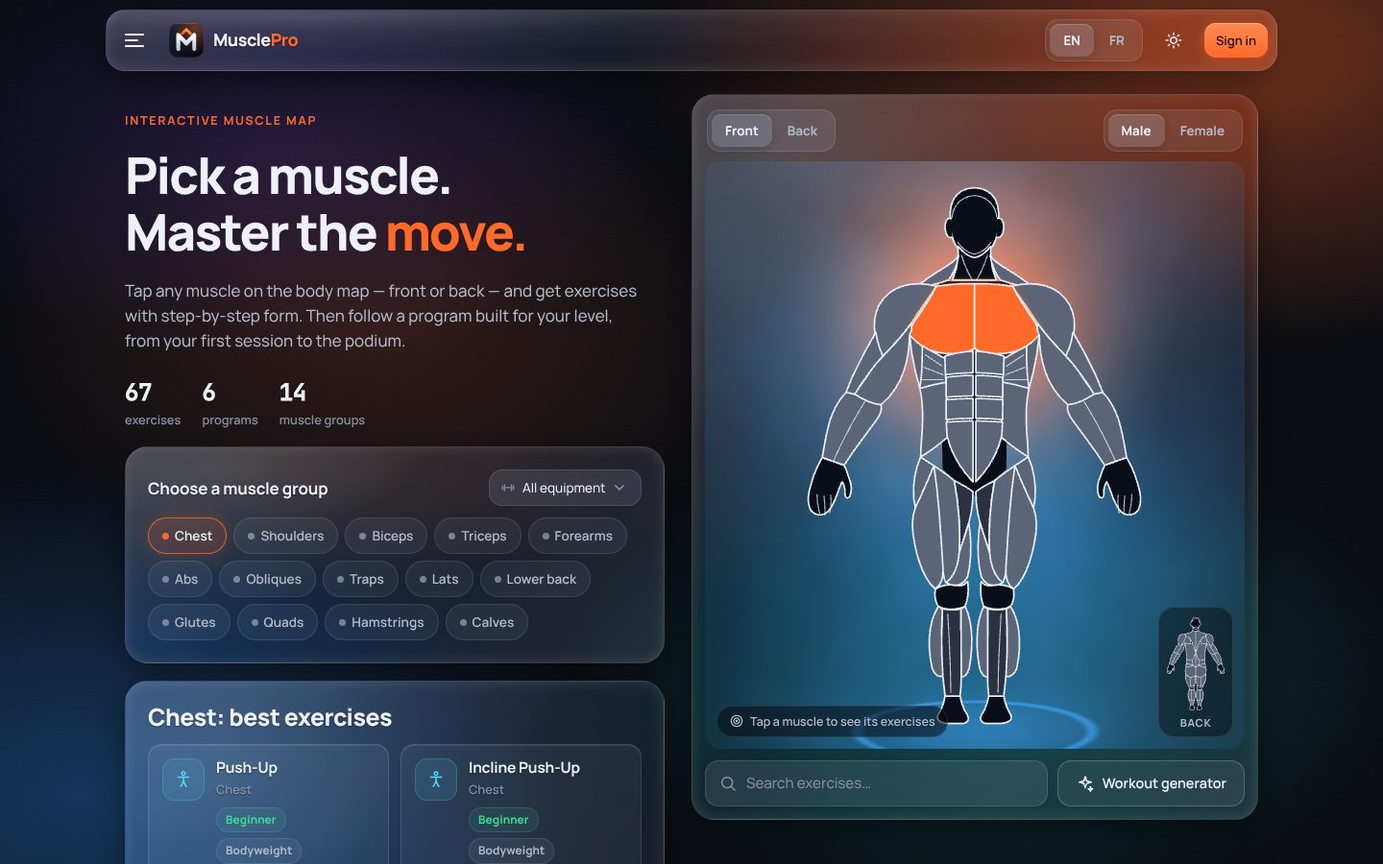
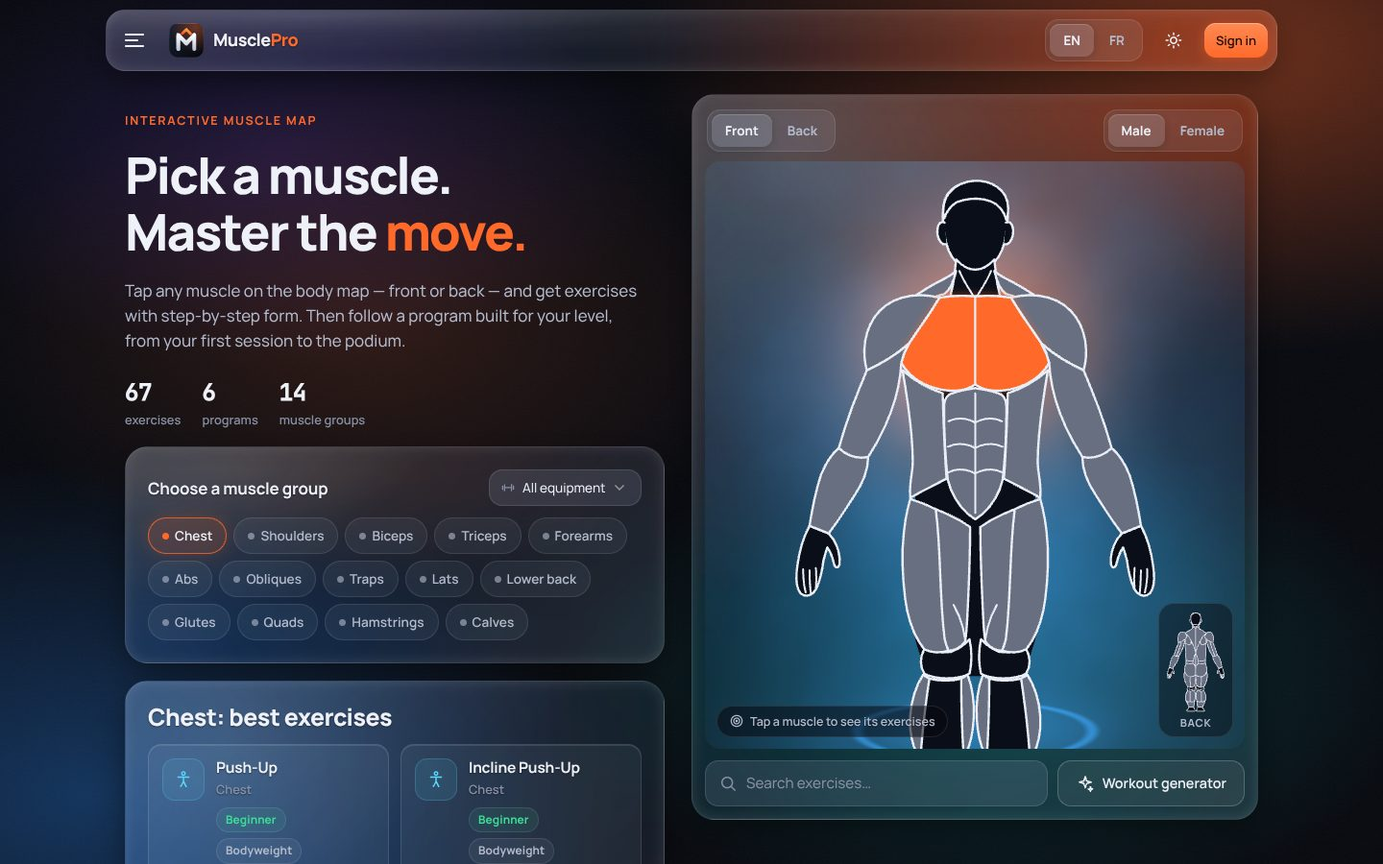
Redraw the body as a human anatomy chart with large smooth forms
The previous map was segmented into many small blocks and thin lines.
New original artwork (600×1010, A-pose) built from a few large
anatomical forms with bold outlines:

- One abdominal wall with curved tendinous lines, one oblique form per
  side, round deltoid caps over a single upper-arm form, flaring
  forearms and open hands
- Thighs as an outer quad sweep plus the inner thigh, separated by a
  dark gap; black knees, calves on the sides of the shin
- Head with a hair shape and ears; hair covers the back view
- Main home view is framed head to mid-calf so the body fills the
  stage; thumbnail and exercise/progress views show the full figure
- Tight dark backings so seams read as dark lines, never as glow
- Female figure keeps the width warp and her own chest shape

Claude-Session: https://claude.ai/code/session_01EFfMgz2SYw7CpDqvwjZRPh

Changed region(s): [[0.5625, 0.1867, 0.8438, 0.8711], [0.8438, 0.6844, 0.9062, 0.84]]

diff --git a/frontend/src/ui/anatomy.ts b/frontend/src/ui/anatomy.ts
@@ -1,15 +1,12 @@
 /** Hand-drawn anatomical muscle map (original artwork for MusclePro).
  *
- *  Each view is authored as the LEFT half of a 500×900 figure (x < 250) in
- *  absolute M/L/C/Z path commands. The right half is generated by mirroring,
- *  and the female figure is produced by a smooth width warp of every
- *  coordinate (narrower shoulders and waist, wider hips) plus a few
- *  replacement shapes — one source of truth for four figures.
+ *  Style: a few large, smooth anatomical forms with thick outlines — the
+ *  way fitness muscle charts read best at phone size. Each view is authored
+ *  as the LEFT half of a 600×1010 heroic male figure (midline x = 300) in
+ *  absolute M/L/C/Z commands; the right half is mirrored and the female
+ *  figure is a smooth width warp of the same art plus her own chest shape.
  */
 import type { BodyType, Muscle } from '../types';
-
-const BUILD_ARM = 1.13;
-const HEAD_SCALE = 0.95;
 
 export type View = 'front' | 'back';
 type Kind = 'muscle' | 'minor' | 'skin' | 'line' | 'back';
@@ -20,112 +17,108 @@ interface Part {
   kind?: Kind; // default 'muscle' when m is set, else 'skin'
   center?: boolean; // spans the midline: drawn once, not mirrored
   only?: BodyType; // shape used for one body type only
-  zone?: 'head' | 'arm'; // build pass: head shrinks, arms widen as a unit
+  arm?: boolean; // arms move as one rigid unit in the female warp
 }
 
-// ---------------------------------------------------------------- shared
-// Canvas: 500 × 900, midline x = 250. Heroic proportions, A-pose (~30°).
-const HEAD = 'M 250 12 C 274 12 290 28 291 54 C 292 72 290 88 286 100 C 282 112 272 122 262 127 C 258 129 254 130 250 130 C 246 130 242 129 238 127 C 228 122 218 112 214 100 C 210 88 208 72 209 54 C 210 28 226 12 250 12 Z';
-const EAR = 'M 211 64 C 203 61 199 72 201 84 C 202 92 207 98 213 96';
-const NECK = 'M 224 112 C 225 130 224 148 219 166 L 281 166 C 276 148 275 130 276 112 C 268 122 259 129 250 130 C 241 129 232 122 224 112 Z';
-const FOREARM = 'M 72 348 L 82 350 C 92 358 102 364 112 364 C 113 372 110 380 104 390 C 92 410 76 436 62 462 L 37 452 C 40 436 45 410 51 390 C 57 372 64 358 72 348 Z';
-const FOREARM_LINE = 'M 93 361 C 80 386 64 420 50 456';
-const HAND = 'M 37 452 C 30 466 24 482 20 498 C 16 512 14 526 18 536 C 22 544 32 544 38 536 C 44 528 48 516 52 504 C 54 498 56 492 58 488 C 60 494 61 500 60 506 C 59 512 62 515 65 511 C 69 502 69 490 66 480 C 65 474 64 468 62 462 Z';
-const FINGERS = 'M 27 510 C 26 522 27 532 28 540 M 35 512 C 35 524 35 534 34 542 M 43 510 C 43 520 42 530 40 538';
-const KNEE = 'M 192 662 C 200 656 212 654 222 656 C 230 658 236 656 240 650 C 242 666 240 680 236 690 C 224 696 206 696 196 690 C 191 682 190 672 192 662 Z';
-const FOOT = 'M 205 834 C 203 846 199 856 194 864 C 190 872 198 878 212 878 L 232 878 C 240 877 243 871 239 864 C 234 856 230 846 228 834 Z';
+// ----------------------------------------------------------------- shared
+const HEAD = 'M 300 26 C 328 26 347 40 350 64 C 352 80 351 96 348 110 C 346 126 340 142 330 152 C 321 160 311 164 300 164 C 289 164 279 160 270 152 C 260 142 254 126 252 110 C 249 96 248 80 250 64 C 253 40 272 26 300 26 Z';
+const EAR = 'M 252 90 C 243 86 239 98 241 110 C 243 120 249 126 255 124';
+const HAIR = 'M 251 84 C 245 56 260 32 288 26 C 310 21 336 28 347 48 C 353 60 353 74 349 86 C 345 72 337 62 325 57 C 307 50 287 52 271 58 C 261 64 255 73 251 84 Z';
+const NECK = 'M 270 148 C 268 168 266 188 261 206 L 339 206 C 334 188 332 168 330 148 C 320 159 310 164 300 164 C 290 164 280 159 270 148 Z';
 
-// Body backing behind the torso: gaps between muscles read as dark seams
-// (and the groin as the dark V), never as the page or glow behind.
-const TORSO_BACKING = 'M 200 168 L 300 168 C 306 230 300 300 296 340 C 294 400 294 440 294 470 L 252 512 L 248 512 L 206 470 C 206 440 206 400 204 340 C 200 300 194 230 200 168 Z';
+// Arm: deltoid cap → one upper-arm form → flaring forearm → open hand.
+const ARM_UPPER = 'M 130 322 C 152 312 176 298 196 280 C 190 290 186 300 184 310 C 182 352 168 402 132 458 C 116 462 98 456 86 444 C 98 400 114 360 130 322 Z';
+const FOREARM = 'M 86 444 C 98 456 116 462 132 458 C 132 478 124 498 112 516 C 98 538 84 560 70 578 L 40 566 C 44 540 50 510 58 486 C 66 466 76 452 86 444 Z';
+const HAND = 'M 40 566 C 30 584 24 606 21 628 C 18 648 19 664 26 672 C 33 679 44 676 50 666 C 56 654 60 636 62 620 C 64 612 66 606 68 600 C 72 606 76 614 78 624 C 79 632 85 634 87 627 C 89 614 84 598 78 588 C 75 584 72 581 70 578 Z';
+const FINGERS = 'M 30 634 C 30 648 31 660 34 671 M 40 636 C 40 650 41 662 42 673 M 50 632 C 51 644 51 655 50 665';
+
+const KNEE = 'M 220 760 C 232 764 248 766 262 764 C 274 760 284 752 291 744 C 295 762 295 782 291 798 C 276 808 236 808 220 798 C 213 786 213 772 220 760 Z';
+const SHIN = 'M 228 806 C 220 860 216 900 214 934 C 222 944 230 954 234 962 L 280 962 C 280 950 281 940 282 930 C 280 900 278 860 278 806 C 264 810 244 810 228 806 Z';
+const FOOT = 'M 234 962 C 230 974 222 984 214 990 C 207 996 213 1002 226 1002 L 288 1002 C 296 1001 297 994 291 987 C 285 980 282 972 280 962 Z';
+
+// Backings: dark body behind the muscles, so every gap reads as a seam.
+const TORSO_BACKING = 'M 200 206 L 400 206 C 412 280 406 360 398 420 C 394 470 394 510 394 530 L 304 582 L 296 582 L 206 530 C 206 510 206 470 202 420 C 194 360 188 280 200 206 Z';
+const LEG_BACKING = 'M 206 532 L 290 566 L 290 800 L 228 800 C 204 760 194 700 194 640 C 194 600 198 560 206 532 Z';
+const CROTCH_BACKING = 'M 282 560 L 318 560 L 318 802 L 282 802 Z';
 
 const FRONT: Part[] = [
   { d: TORSO_BACKING, center: true, kind: 'back' },
-  // head & neck
-  { d: HEAD, center: true, zone: 'head' },
-  { d: EAR, zone: 'head' },
-  { d: 'M 212 62 C 214 40 230 26 250 25', kind: 'line', zone: 'head' },
-  { d: 'M 222 104 C 228 114 238 122 250 124', kind: 'line', zone: 'head' },
-  { d: NECK, center: true },
-  { d: 'M 229 126 C 234 140 240 154 247 166', kind: 'line' },
+  { d: LEG_BACKING, kind: 'back' },
+  { d: CROTCH_BACKING, center: true, kind: 'back' },
 
-  // traps (upper, seen from the front)
-  { m: 'traps', d: 'M 225 126 C 223 144 219 157 213 166 C 199 172 183 176 166 179 C 178 166 194 154 207 144 C 215 138 221 133 225 126 Z' },
+  // head & neck
+  { d: HEAD, center: true },
+  { d: EAR },
+  { d: HAIR, center: true },
+  { d: NECK, center: true },
+  { d: 'M 275 166 C 282 182 290 194 297 205', kind: 'line' },
+
+  // traps rising to the neck
+  { m: 'traps', d: 'M 270 166 C 266 184 260 196 252 202 C 236 208 214 212 194 214 C 214 198 236 186 252 178 C 260 174 266 170 270 166 Z' },
 
   // shoulders & chest
-  { m: 'shoulders', d: 'M 196 176 C 172 168 146 172 130 186 C 114 200 107 220 108 242 C 109 262 113 276 120 288 C 136 270 150 252 160 236 C 172 214 186 194 196 176 Z' },
-  { m: 'chest', only: 'male', d: 'M 250 172 C 232 171 214 173 196 176 C 188 194 176 214 164 234 C 160 242 158 248 158 254 C 166 270 186 282 210 284 C 228 286 242 282 250 276 Z' },
-  { m: 'chest', only: 'female', d: 'M 250 174 C 232 173 214 175 196 178 C 188 196 176 216 164 236 C 158 262 170 292 198 297 C 222 301 240 293 250 285 Z' },
-  { d: 'M 250 172 L 250 276', kind: 'line', center: true },
+  { m: 'shoulders', d: 'M 244 208 C 214 200 182 204 160 220 C 138 236 127 262 126 290 C 126 302 127 312 130 322 C 152 312 176 298 196 280 C 212 256 230 232 244 208 Z' },
+  { m: 'chest', only: 'male', d: 'M 300 206 C 280 204 262 205 244 208 C 230 232 212 256 196 280 C 190 290 186 300 184 310 C 196 334 226 352 260 354 C 280 355 292 350 300 344 Z' },
+  { m: 'chest', only: 'female', d: 'M 300 208 C 280 206 262 207 244 210 C 230 234 212 258 198 282 C 184 306 184 334 206 350 C 228 366 268 362 300 350 Z' },
 
   // arms
-  { m: 'triceps', d: 'M 110 250 C 112 264 115 277 120 288 C 108 304 94 326 82 350 L 72 348 C 82 318 95 282 110 250 Z', zone: 'arm' },
-  { m: 'biceps', d: 'M 160 236 C 162 244 160 250 158 254 C 157 292 141 332 112 364 C 102 364 92 358 82 350 C 96 326 106 304 120 288 C 136 270 150 252 160 236 Z', zone: 'arm' },
-  { m: 'forearms', d: FOREARM, zone: 'arm' },
-  { d: FOREARM_LINE, kind: 'line', zone: 'arm' },
-  { d: HAND, zone: 'arm' },
-  { d: FINGERS, kind: 'line', zone: 'arm' },
+  { m: 'biceps', d: ARM_UPPER, arm: true },
+  { m: 'forearms', d: FOREARM, arm: true },
+  { d: HAND, arm: true },
+  { d: FINGERS, kind: 'line', arm: true },
 
-  // torso
-  { m: 'lats', d: 'M 158 254 C 164 262 170 268 176 272 C 176 296 176 318 174 340 C 166 314 160 284 158 254 Z' },
-  { m: 'obliques', d: 'M 176 272 C 186 278 198 285 208 292 L 210 330 C 198 332 186 336 174 340 C 176 318 176 296 176 272 Z' },
-  { d: 'M 180 286 C 188 292 196 298 204 304 M 178 306 C 188 310 196 314 206 318 M 177 326 C 186 326 196 326 206 326', kind: 'line' },
-  { m: 'obliques', d: 'M 174 340 C 186 336 198 332 210 330 C 212 362 214 392 214 418 C 202 430 190 440 176 450 C 177 428 180 410 180 392 C 180 374 178 356 174 340 Z' },
-  { m: 'abs', d: 'M 248 280 C 236 281 222 283 208 288 L 209 318 C 222 316 236 315 248 315 Z' },
-  { m: 'abs', d: 'M 248 319 C 236 319 222 320 210 322 L 211 354 C 224 353 236 352 248 352 Z' },
-  { m: 'abs', d: 'M 248 356 C 236 356 224 357 211 358 L 212 390 C 224 389 236 388 248 388 Z' },
-  { m: 'abs', d: 'M 248 392 C 236 392 224 393 212 394 L 213 416 C 218 444 230 468 248 490 Z' },
+  // torso: one oblique form per side, one abdominal wall with its lines
+  { m: 'obliques', d: 'M 186 322 C 206 340 230 352 249 358 C 250 400 252 450 255 492 C 236 502 216 512 198 522 C 196 500 202 482 202 466 C 202 430 196 380 186 322 Z' },
+  { m: 'abs', center: true, d: 'M 300 350 C 288 352 272 354 259 360 C 253 364 251 372 251 382 C 251 420 253 460 257 494 C 263 520 280 544 300 556 C 320 544 337 520 343 494 C 347 460 349 420 349 382 C 349 372 347 364 341 360 C 328 354 312 352 300 350 Z' },
+  { center: true, kind: 'line', d: 'M 300 358 L 300 546 M 258 402 C 272 395 288 397 300 404 C 312 397 328 395 342 402 M 257 442 C 272 435 288 437 300 444 C 312 437 328 435 343 442 M 258 482 C 272 475 288 477 300 484 C 312 477 328 475 342 482' },
 
-  // hips & thighs
-  { m: 'glutes', d: 'M 176 450 L 194 464 C 186 486 176 510 166 532 C 162 506 166 474 176 450 Z' },
-  { m: 'quads', d: 'M 194 464 C 200 516 202 576 204 630 C 204 646 200 656 192 662 C 178 650 168 620 164 590 C 160 566 160 548 166 532 C 176 510 186 486 194 464 Z' },
-  { m: 'quads', d: 'M 194 464 C 204 472 214 480 222 488 C 228 528 230 568 228 604 C 226 628 218 644 208 652 C 205 646 204 638 204 630 C 202 576 200 516 194 464 Z' },
-  { m: 'quads', d: 'M 228 604 C 234 584 238 570 242 556 C 246 584 246 616 240 642 C 234 656 222 660 208 652 C 218 644 226 628 228 604 Z' },
-  { kind: 'minor', d: 'M 222 488 C 232 494 242 500 248 506 C 248 524 246 540 242 556 C 238 570 234 584 228 604 C 230 568 228 528 222 488 Z' },
+  // thighs: the outer quad sweep and the inner thigh, split by one line
+  { m: 'quads', d: 'M 198 524 C 212 528 226 534 238 540 C 246 600 244 680 252 744 C 254 752 256 758 258 762 C 246 766 232 766 220 760 C 204 740 194 712 190 680 C 186 648 184 610 188 576 C 190 556 194 538 198 524 Z' },
+  { m: 'quads', d: 'M 238 540 C 258 548 276 556 292 568 C 292 610 290 660 288 700 C 287 722 286 738 284 748 C 276 758 268 762 258 762 C 256 758 254 752 252 744 C 244 680 246 600 238 540 Z' },
+  { d: 'M 266 690 C 276 708 282 726 284 744', kind: 'line' },
 
   // knees, lower legs, feet
   { d: KNEE },
-  { m: 'calves', d: 'M 196 690 C 182 712 178 750 186 790 C 190 800 196 804 202 802 C 200 766 200 728 202 694 Z' },
-  { m: 'calves', d: 'M 236 690 C 247 712 249 752 242 790 C 239 800 234 804 230 803 C 230 766 230 728 230 694 Z' },
-  { kind: 'minor', d: 'M 202 694 C 212 696 222 696 230 694 C 230 728 230 766 230 803 C 230 814 229 824 228 834 L 205 834 C 204 824 203 814 202 802 C 200 766 200 728 202 694 Z' },
-  { d: 'M 210 702 C 212 742 214 784 214 828', kind: 'line' },
+  { d: SHIN },
+  { m: 'calves', d: 'M 218 800 C 204 822 196 852 198 884 C 200 906 206 922 214 934 C 216 900 220 860 228 806 Z' },
+  { m: 'calves', d: 'M 288 800 C 298 826 300 856 296 886 C 293 906 288 920 282 930 C 280 900 278 860 278 806 Z' },
   { d: FOOT },
 ];
 
 const BACK: Part[] = [
   { d: TORSO_BACKING, center: true, kind: 'back' },
-  { d: HEAD, center: true, zone: 'head' },
-  { d: EAR, zone: 'head' },
-  { d: 'M 212 62 C 214 40 230 26 250 25', kind: 'line', zone: 'head' },
-  { d: 'M 220 106 C 232 113 268 113 280 106', kind: 'line', center: true, zone: 'head' },
+  { d: LEG_BACKING, kind: 'back' },
+  { d: CROTCH_BACKING, center: true, kind: 'back' },
+
+  { d: HEAD, center: true },
+  { d: EAR },
+  { d: 'M 251 92 C 244 60 262 30 300 28 C 338 30 356 60 349 92 C 346 112 340 128 330 140 C 312 146 288 146 270 140 C 260 128 254 112 251 92 Z', center: true },
   { d: NECK, center: true },
 
-  { m: 'traps', d: 'M 250 150 L 250 346 C 242 314 234 286 224 262 C 218 246 212 232 204 220 C 194 206 180 196 166 188 C 162 184 158 180 156 176 C 176 172 194 166 210 158 C 218 154 222 146 224 138 C 230 144 240 148 250 150 Z' },
-  { m: 'shoulders', d: 'M 156 176 C 134 170 116 182 110 202 C 104 222 104 244 110 262 C 114 274 119 283 126 290 C 136 270 146 250 156 232 C 164 218 170 204 166 188 C 162 184 158 180 156 176 Z' },
-  { m: 'shoulders', d: 'M 166 188 C 180 196 194 206 204 220 C 210 232 212 246 208 262 C 192 268 172 266 160 258 C 156 250 155 240 156 232 C 164 218 170 204 166 188 Z' },
-  { m: 'lats', d: 'M 160 258 C 172 266 192 268 208 262 L 224 262 C 234 286 242 314 248 350 C 244 374 236 398 224 418 C 208 420 192 416 180 410 C 178 380 174 346 170 314 C 168 294 164 274 160 258 Z' },
-  { m: 'lower_back', d: 'M 250 350 L 250 488 C 238 484 230 474 226 460 C 224 446 224 432 224 418 C 236 398 244 374 248 352 Z' },
-  { m: 'obliques', d: 'M 180 410 C 194 416 208 420 224 418 C 224 432 224 446 226 460 C 210 458 194 454 176 450 C 176 436 178 422 180 410 Z' },
+  // traps kite, rear delts, rotator cuff, lats
+  { m: 'traps', d: 'M 300 176 L 300 420 C 290 384 276 344 262 314 C 254 296 244 280 232 266 C 222 254 208 240 194 226 C 214 212 240 200 258 190 C 266 184 270 174 272 164 C 280 170 290 174 300 176 Z' },
+  { m: 'shoulders', d: 'M 194 226 C 172 210 146 214 134 236 C 124 256 124 284 126 300 C 127 310 128 316 130 322 C 152 316 176 302 196 288 C 204 278 210 268 214 260 C 208 250 202 238 194 226 Z' },
+  { m: 'shoulders', d: 'M 194 226 C 208 240 222 254 232 266 C 244 280 252 296 254 312 C 254 324 251 334 246 342 C 230 344 212 338 198 330 C 196 316 196 300 196 288 C 204 278 210 268 214 260 C 208 250 202 238 194 226 Z' },
+  { m: 'lats', d: 'M 198 330 C 212 338 230 344 246 342 C 252 334 256 324 262 314 C 276 344 290 384 300 420 L 300 426 C 288 446 280 470 276 500 C 254 506 228 504 204 498 C 204 470 202 440 200 410 C 198 380 196 352 198 330 Z' },
+  { m: 'lower_back', d: 'M 300 426 L 300 558 C 290 552 280 542 274 528 C 272 518 274 508 276 500 C 280 470 288 446 300 426 Z' },
+  { m: 'obliques', d: 'M 204 498 C 228 504 254 506 276 500 C 274 508 272 518 274 528 C 250 534 226 532 204 526 C 202 516 202 506 204 498 Z' },
 
   // arms
-  { m: 'triceps', d: 'M 110 262 C 114 274 119 283 126 290 C 136 278 148 266 160 258 C 158 294 142 332 112 364 C 100 364 86 358 72 348 C 80 316 94 286 110 262 Z', zone: 'arm' },
-  { d: 'M 128 294 C 114 316 101 336 92 358', kind: 'line', zone: 'arm' },
-  { m: 'forearms', d: FOREARM, zone: 'arm' },
-  { d: FOREARM_LINE, kind: 'line', zone: 'arm' },
-  { d: HAND, zone: 'arm' },
-  { d: FINGERS, kind: 'line', zone: 'arm' },
+  { m: 'triceps', d: 'M 130 322 C 152 316 176 302 196 288 C 194 298 192 308 190 318 C 182 356 168 404 132 458 C 116 462 98 456 86 444 C 98 400 114 360 130 322 Z', arm: true },
+  { d: 'M 158 318 C 146 360 130 404 112 452', kind: 'line', arm: true },
+  { m: 'forearms', d: FOREARM, arm: true },
+  { d: HAND, arm: true },
+  { d: FINGERS, kind: 'line', arm: true },
 
   // glutes & legs
-  { m: 'glutes', d: 'M 176 450 C 194 454 210 458 226 460 C 220 470 208 476 194 480 C 184 482 176 484 170 486 C 170 472 172 460 176 450 Z' },
-  { m: 'glutes', d: 'M 170 486 C 186 483 202 478 218 472 C 234 467 246 476 250 490 L 250 558 C 238 572 220 576 202 574 C 182 571 168 558 165 540 C 162 520 164 502 170 486 Z' },
-  { m: 'hamstrings', d: 'M 166 544 C 176 564 192 572 208 576 C 206 612 206 640 208 662 C 200 666 194 665 190 661 C 176 638 166 608 164 584 C 162 568 163 554 166 544 Z' },
-  { m: 'hamstrings', d: 'M 208 576 C 224 576 240 572 249 564 C 248 594 246 624 240 652 C 232 662 220 666 208 662 C 206 640 206 612 208 576 Z' },
+  { m: 'glutes', d: 'M 204 526 C 226 532 250 534 274 528 C 288 540 296 552 300 566 L 300 640 C 286 656 262 662 240 658 C 214 654 196 636 192 610 C 188 584 194 548 204 526 Z' },
+  { m: 'hamstrings', d: 'M 192 612 C 204 640 222 656 244 660 C 244 700 246 734 250 762 C 236 764 226 762 220 760 C 200 730 188 690 184 660 C 182 640 186 624 192 612 Z' },
+  { m: 'hamstrings', d: 'M 244 660 C 266 662 288 654 299 642 C 299 680 296 720 290 748 C 278 760 264 764 250 762 C 246 734 244 700 244 660 Z' },
   { d: KNEE },
-  { d: 'M 202 674 C 210 680 224 680 232 674', kind: 'line' },
-  { m: 'calves', d: 'M 196 690 C 182 710 178 746 188 778 C 194 790 204 792 214 788 C 214 756 214 722 215 692 C 208 688 202 688 196 690 Z' },
-  { m: 'calves', d: 'M 215 692 C 223 688 230 688 236 690 C 247 714 249 750 241 780 C 236 792 224 794 214 788 C 214 756 214 722 215 692 Z' },
-  { m: 'calves', d: 'M 188 778 C 194 790 204 792 214 788 C 224 794 236 792 241 780 C 237 798 232 816 228 834 L 205 834 C 200 816 194 798 188 778 Z' },
-  { d: 'M 216 800 L 216 830', kind: 'line' },
+  { d: 'M 230 782 C 246 790 268 790 284 782', kind: 'line' },
+  { m: 'calves', d: 'M 218 800 C 202 824 194 860 202 892 C 208 906 226 912 244 906 C 244 872 244 838 244 806 C 236 800 226 798 218 800 Z' },
+  { m: 'calves', d: 'M 244 806 C 256 798 274 798 288 800 C 300 826 300 866 290 896 C 284 908 266 912 244 906 C 244 872 244 838 244 806 Z' },
+  { m: 'calves', d: 'M 202 892 C 208 906 226 912 244 906 C 266 912 284 908 290 896 C 286 920 282 942 280 962 L 234 962 C 226 940 214 916 202 892 Z' },
   { d: FOOT },
 ];
 
@@ -150,7 +143,9 @@ function mapPath(d: string, fn: Fn): string {
   return out.join(' ');
 }
 
-const mirror: Fn = (x, y) => [500 - x, y];
+const MID = 300;
+const mirror: Fn = (x, y) => [2 * MID - x, y];
+const identity: Fn = (x, y) => [x, y];
 
 /** Smoothstep interpolation through (y, k) keyframes. */
 function smoothKeys(y: number, keys: [number, number][]): number {
@@ -165,67 +160,33 @@ function smoothKeys(y: number, keys: [number, number][]): number {
   return keys[keys.length - 1][1];
 }
 
-// Build pass — bodybuilder mass: a broad torso, solid waist and big legs
-// (width multiplier by height), arms widened as one unit so they stay
-// straight, and a smaller head scaled toward the chin.
-const BUILD_K: [number, number][] = [
-  [0, 1], [128, 1], [168, BUILD_ARM], [300, BUILD_ARM], [400, 1.19], [470, 1.16], [560, 1.12], [700, 1.07], [900, 1.04],
-];
-// Arms get thicker around their own axis (shoulder → wrist), ramping in
-// below the deltoid so the shoulder seam stays exact.
-const ARM_AXIS = { sx: 142, sy: 222, wx: 50, wy: 456 };
-const ARM_THICK = 1.24;
-function thickenArm(x: number, y: number): [number, number] {
-  const { sx, sy, wx, wy } = ARM_AXIS;
-  const dx = wx - sx;
-  const dy = wy - sy;
-  const t = ((x - sx) * dx + (y - sy) * dy) / (dx * dx + dy * dy);
-  const ramp = Math.min(1, Math.max(0, (t - 0.22) / 0.2));
-  const k = 1 + (ARM_THICK - 1) * ramp * ramp * (3 - 2 * ramp);
-  const fx = sx + t * dx;
-  const fy = sy + t * dy;
-  return [fx + (x - fx) * k, fy + (y - fy) * k];
-}
-
-function build(zone: Part['zone']): Fn {
-  if (zone === 'head') return (x, y) => [250 + (x - 250) * HEAD_SCALE, 130 + (y - 130) * HEAD_SCALE];
-  if (zone === 'arm')
-    return (x, y) => {
-      const [tx, ty] = thickenArm(x, y);
-      return [250 + (tx - 250) * BUILD_ARM, ty];
-    };
-  return (x, y) => [250 + (x - 250) * smoothKeys(y, BUILD_K), y];
-}
-
-// Female silhouette: width multiplier by height (piecewise, smoothed).
+// Female silhouette: narrower shoulders and waist, wider hips (width
+// multiplier by height); arms follow the shoulders as one rigid unit.
 const FEMALE_K: [number, number][] = [
-  [0, 0.93], [130, 0.93], [176, 0.86], [282, 0.88], [395, 0.85], [462, 1.0], [540, 1.06], [662, 1.01], [900, 0.97],
+  [0, 0.93], [165, 0.93], [210, 0.86], [340, 0.88], [470, 0.85], [535, 1.0], [612, 1.06], [760, 1.01], [1010, 0.97],
 ];
-const femaleK = (y: number): number => smoothKeys(y, FEMALE_K);
 const FEMALE_ARM = 0.87;
-const femaleWarp: Fn = (x, y) => [250 + (x - 250) * femaleK(y), y];
+const female = (arm: boolean): Fn =>
+  arm ? (x, y) => [MID + (x - MID) * FEMALE_ARM, y] : (x, y) => [MID + (x - MID) * smoothKeys(y, FEMALE_K), y];
 
 // ------------------------------------------------------------- render
 export interface AnatomyOptions {
   label?: (m: Muscle) => string;
   interactive?: boolean;
+  /** 'full' shows head to feet; 'focus' frames head to mid-calf, bigger. */
+  frame?: 'full' | 'focus';
 }
+
+const VIEWBOX = { full: '-4 14 608 996', focus: '4 18 592 880' };
 
 /** Render one view as an <svg> string. Muscle groups are <g data-muscle>. */
 export function renderAnatomy(view: View, body: BodyType, opts: AnatomyOptions = {}): string {
   const parts = (view === 'front' ? FRONT : BACK).filter((p) => !p.only || p.only === body);
-  const shape = (zone: Part['zone']): Fn => {
-    const b = build(zone);
-    if (body !== 'female') return b;
-    // Female arms follow the narrower shoulders as one rigid unit.
-    if (zone === 'arm') return (x, y) => b(250 + (x - 250) * FEMALE_ARM, y);
-    return (x, y) => b(...femaleWarp(x, y));
-  };
   const groups = new Map<Muscle, string[]>();
   const layers: Record<Exclude<Kind, 'muscle'>, string[]> = { back: [], skin: [], minor: [], line: [] };
 
   for (const p of parts) {
-    const warp = shape(p.zone);
+    const warp = body === 'female' ? female(!!p.arm) : identity;
     const ds = [mapPath(p.d, warp)];
     // Shape the authored left half first, then mirror (all passes are symmetric).
     if (!p.center) ds.push(mapPath(p.d, (x, y) => mirror(...warp(x, y))));
@@ -234,7 +195,8 @@ export function renderAnatomy(view: View, body: BodyType, opts: AnatomyOptions =
       list.push(...ds);
       groups.set(p.m, list);
     } else {
-      layers[p.kind === 'line' || p.kind === 'minor' || p.kind === 'back' ? p.kind : 'skin'].push(...ds);
+      const kind = p.kind && p.kind !== 'muscle' ? p.kind : 'skin';
+      layers[kind].push(...ds);
     }
   }
 
@@ -249,7 +211,7 @@ export function renderAnatomy(view: View, body: BodyType, opts: AnatomyOptions =
     })
     .join('');
 
-  return `<svg class="anatomy" viewBox="-36 0 572 900" xmlns="http://www.w3.org/2000/svg" data-view="${view}" role="group">
+  return `<svg class="anatomy" viewBox="${VIEWBOX[opts.frame ?? 'full']}" xmlns="http://www.w3.org/2000/svg" data-view="${view}" role="group">
     <g class="mp-back-layer">${layers.back.map(path('mp-back')).join('')}</g>
     <g class="mp-skin-layer">${layers.skin.map(path('mp-skin')).join('')}</g>
     <g class="mp-minor-layer">${layers.minor.map(path('mp-minor')).join('')}</g>

diff --git a/frontend/src/styles/views.css b/frontend/src/styles/views.css
@@ -98,11 +98,11 @@
 
 /* The drawing: tokens per theme */
 .anatomy {
-  --mp-fill: #5c6477;
-  --mp-fill-hover: #7c869d;
+  --mp-fill: #676f81;
+  --mp-fill-hover: #858ea4;
   --mp-stroke: #e9edf6;
   --mp-skin: #0a0e18;
-  --mp-minor: #2a3142;
+  --mp-minor: #565d6e;
   overflow: visible;
 }
 [data-theme='light'] .anatomy {
@@ -112,11 +112,11 @@
   --mp-skin: #f6f8fc;
   --mp-minor: #dde2eb;
 }
-.anatomy path { stroke: var(--mp-stroke); stroke-width: 2.6; stroke-linejoin: round; stroke-linecap: round; }
+.anatomy path { stroke: var(--mp-stroke); stroke-width: 3.6; stroke-linejoin: round; stroke-linecap: round; }
 .anatomy .mp-skin { fill: var(--mp-skin); }
 .anatomy .mp-back { fill: var(--mp-skin); stroke: none; }
 .anatomy .mp-minor { fill: var(--mp-minor); }
-.anatomy .mp-line { fill: none; stroke-width: 1.7; opacity: 0.8; }
+.anatomy .mp-line { fill: none; stroke-width: 3; }
 .anatomy .mp-m { fill: var(--mp-fill); transition: fill 0.2s var(--ease-out); }
 .anatomy .mg { outline: none; }
 .anatomy .mg.has-level .mp-m {
@@ -156,7 +156,7 @@
   transition: transform 0.2s var(--ease-out), border-color 0.2s;
 }
 .body-thumb .anatomy { width: 100%; height: auto; pointer-events: none; }
-.body-thumb .anatomy path { stroke-width: 5; }
+.body-thumb .anatomy path { stroke-width: 7; }
 .body-thumb:hover { border-color: rgb(var(--accent-rgb) / 0.6); transform: translateY(-2px); }
 .body-thumb:focus-visible { outline: none; box-shadow: 0 0 0 3px rgb(var(--accent-rgb) / 0.45); }
 

diff --git a/frontend/src/ui/bodyViewer.ts b/frontend/src/ui/bodyViewer.ts
@@ -52,8 +52,8 @@ export async function mountBody(host: HTMLElement, opts: BodyViewerOptions = {})
       .map(([v, l]) => `<button type="button" data-${attr}="${v}" aria-pressed="${v === current}">${esc(l)}</button>`)
       .join('')}</div>`;
 
-  const figure = (v: View, isInteractive: boolean) =>
-    renderAnatomy(v, body, { label, interactive: isInteractive });
+  const figure = (v: View, isInteractive: boolean, frame: 'full' | 'focus' = 'full') =>
+    renderAnatomy(v, body, { label, interactive: isInteractive, frame });
 
   const render = () => {
     const toolbar = `<div class="body-toolbar">
@@ -64,7 +64,7 @@ export async function mountBody(host: HTMLElement, opts: BodyViewerOptions = {})
       const other: View = view === 'front' ? 'back' : 'front';
       host.innerHTML = `${toolbar}
         <div class="body-map single${interactive ? ' is-interactive' : ''}">
-          <div class="body-figure" data-view="${view}">${figure(view, interactive)}</div>
+          <div class="body-figure" data-view="${view}">${figure(view, interactive, 'focus')}</div>
           <button class="body-thumb" type="button" data-flip aria-label="${esc(t(other === 'back' ? 'body.showBack' : 'body.showFront'))}">
             ${figure(other, false)}<span>${esc(t(other === 'back' ? 'body.back' : 'body.front'))}</span>
           </button>

diff --git a/README.md b/README.md
@@ -23,7 +23,7 @@
 ## Features
 
 **Train**
-- **Muscle map**: an original hand-drawn anatomy chart with bodybuilder proportions — front and back, male and female — with 14 tappable muscle groups (mouse, touch or keyboard) and a thumbnail to flip the body. Next to it: an equipment filter for the suggested exercises, a quick exercise search and a shortcut to the workout generator. Muscles light up by role: primary, secondary, or how much you trained them this week. A **Three.js + GLSL** light field glows behind the figure and travels to the muscle you pick.
+- **Muscle map**: an original hand-drawn anatomy chart — large, smooth muscle forms with bold outlines and bodybuilder proportions — front and back, male and female — with 14 tappable muscle groups (mouse, touch or keyboard) and a thumbnail to flip the body. Next to it: an equipment filter for the suggested exercises, a quick exercise search and a shortcut to the workout generator. Muscles light up by role: primary, secondary, or how much you trained them this week. A **Three.js + GLSL** light field glows behind the figure and travels to the muscle you pick.
 - **Exercise library**: 67 exercises, each with numbered steps and a coach tip in EN/FR, filters for muscle, equipment, level and search (accent-insensitive: “squat bulgare” works).
 - **Programs for every level**: Foundation Full Body, Home Bodyweight Starter, Upper/Lower Strength, Push·Pull·Legs, Athlete Power & Speed, Peak Strength Block — weekly schedule, progression rules, completion tracking.
 - **Workout generator**: goal × level × time × equipment × target muscles → a balanced session ordered like a coach would (power first, compounds, isolation, core last).
